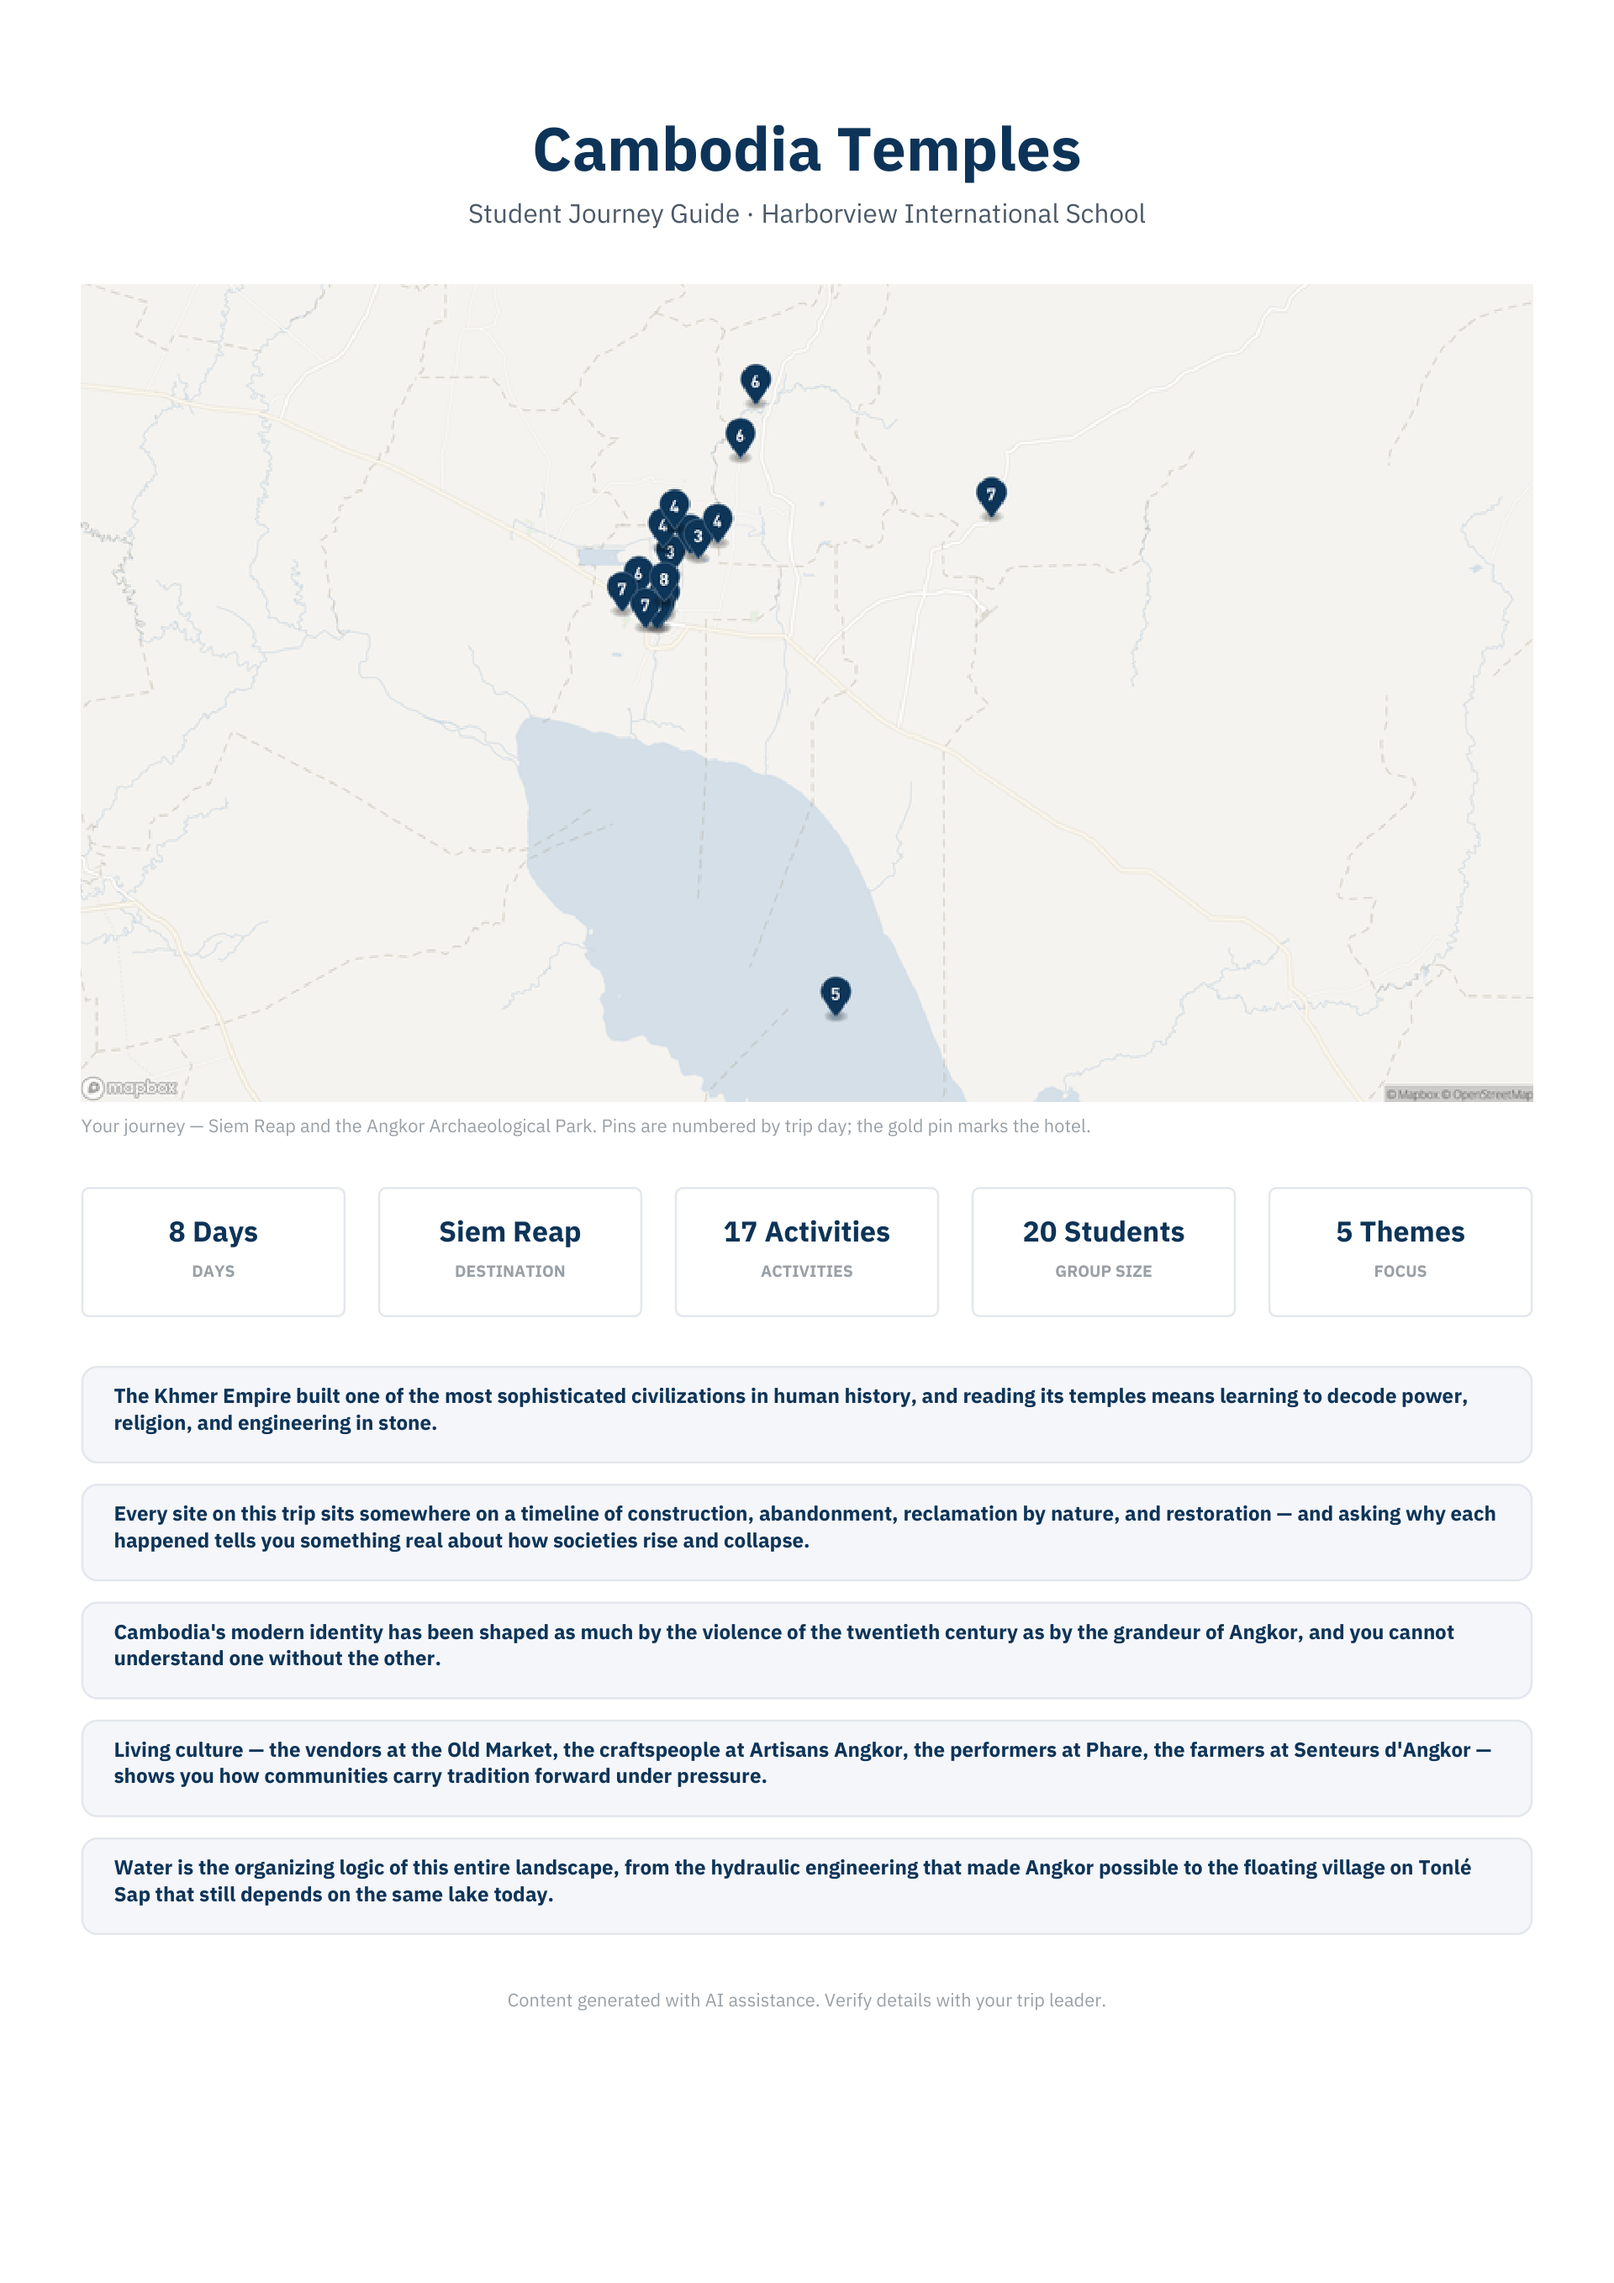
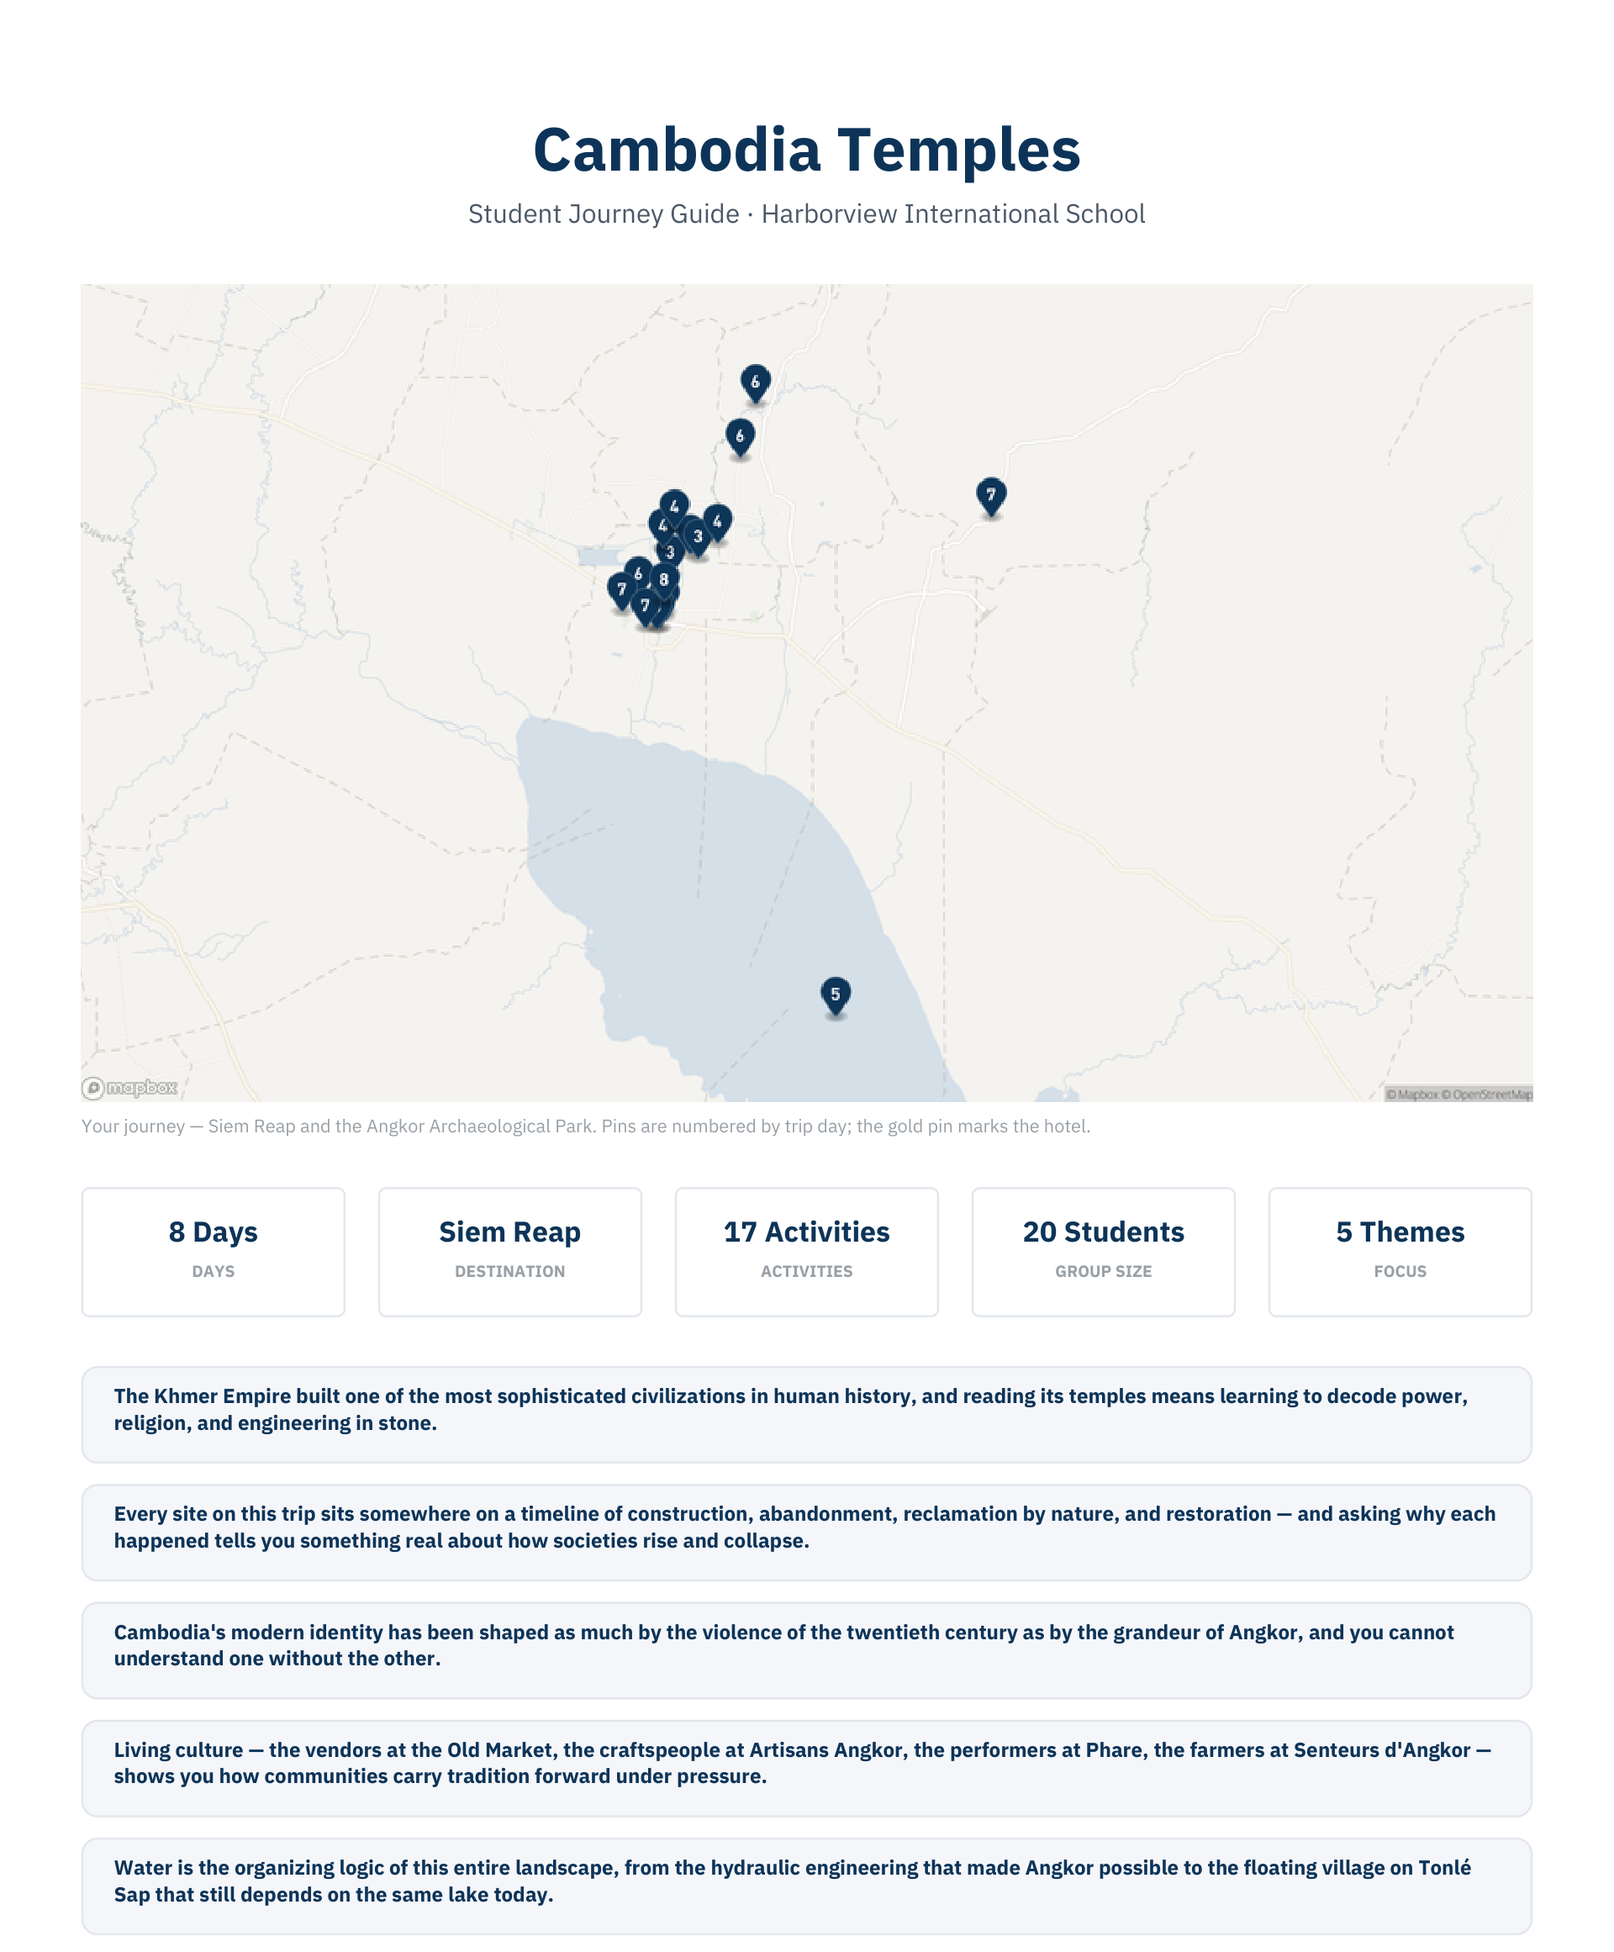
Overview crop stops above the AI-assistance line
The secondary artifact on the Student Journey Guide page was the
guide's full opening page, so the held "Content generated with AI
assistance" footer was legible on a public page. Re-exported with a
clip at 720pt — below the last theme card, above the disclosure —
keeping the trip map, the five trip facts and all five themes.

Also carries Dan's CTA rewrite on the same page.

diff --git a/apps/web/src/app/for-schools/student-journey/page.tsx b/apps/web/src/app/for-schools/student-journey/page.tsx
@@ -83,7 +83,7 @@ const data: SolutionReportData = {
   secondaryArtifact: {
     src: "/Claude/Questions/assets/student-journey-overview.png",
     width: 1920,
-    height: 2716,
+    height: 2322,
     alt: "ETI360 Student Journey Guide overview page showing the whole trip on one map, trip facts, and the learning themes the trip is built around",
     caption:
       "The opening page: the whole journey on one map, with the themes the trip is built around. A Harborview demonstration trip.",
